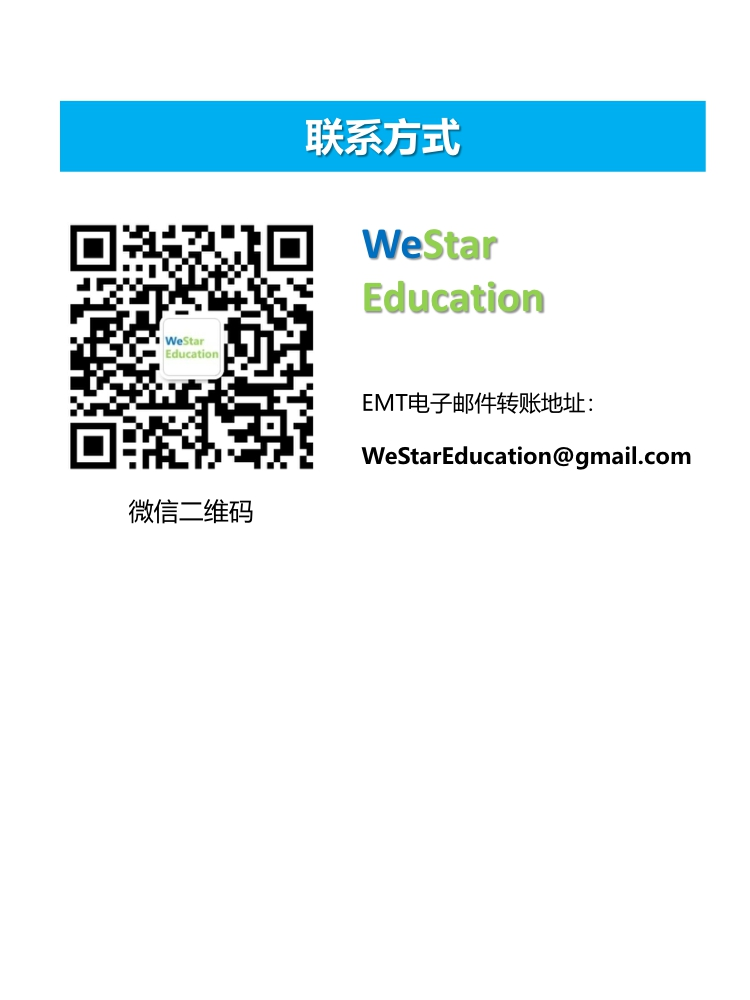
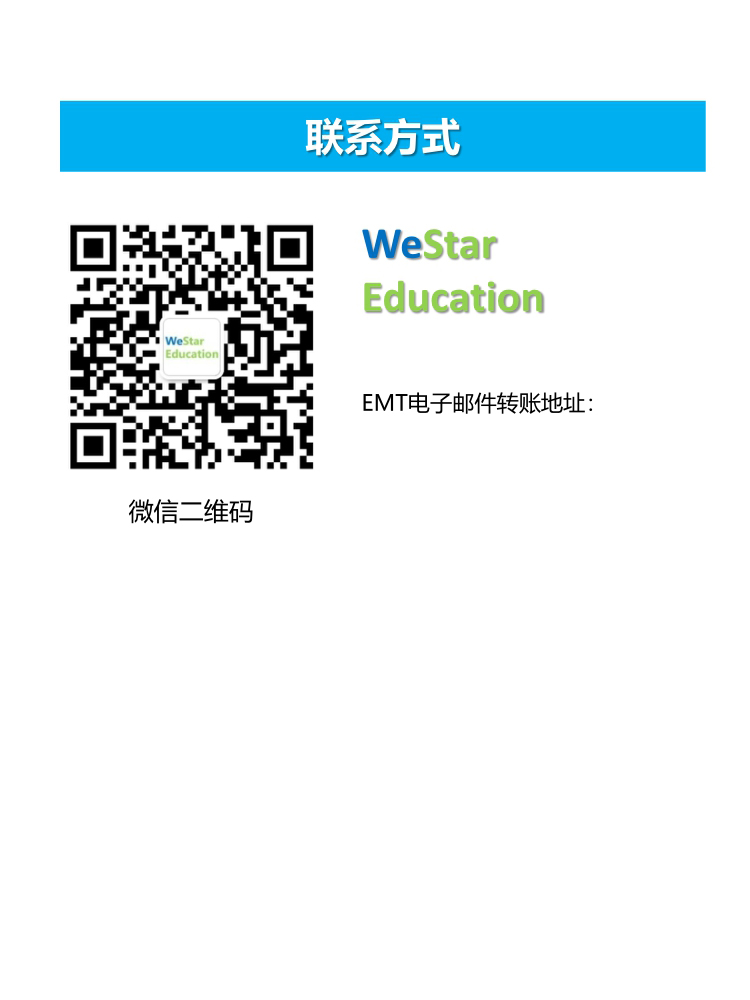
update

Changed region(s): [[0.4907, 0.434, 0.92, 0.465]]

diff --git a/lianxifangshi.html b/lianxifangshi.html
@@ -15,6 +15,7 @@
         <div class="row">
             <img src="./assets/联系方式.jpg" alt="联系方式"  width=100%>
         </div>
+        <p class="email">WeStarEducation@gmail.com</p>
     </div>
 </body>
 </html>

diff --git a/css/custom.css b/css/custom.css
@@ -94,3 +94,11 @@
 canvas {
     margin-left: -15px;
 }
+
+.email{
+    position:absolute;
+    left:49%;
+    top:25%;
+    font-size: 30px;
+    font-weight: 500;
+}
